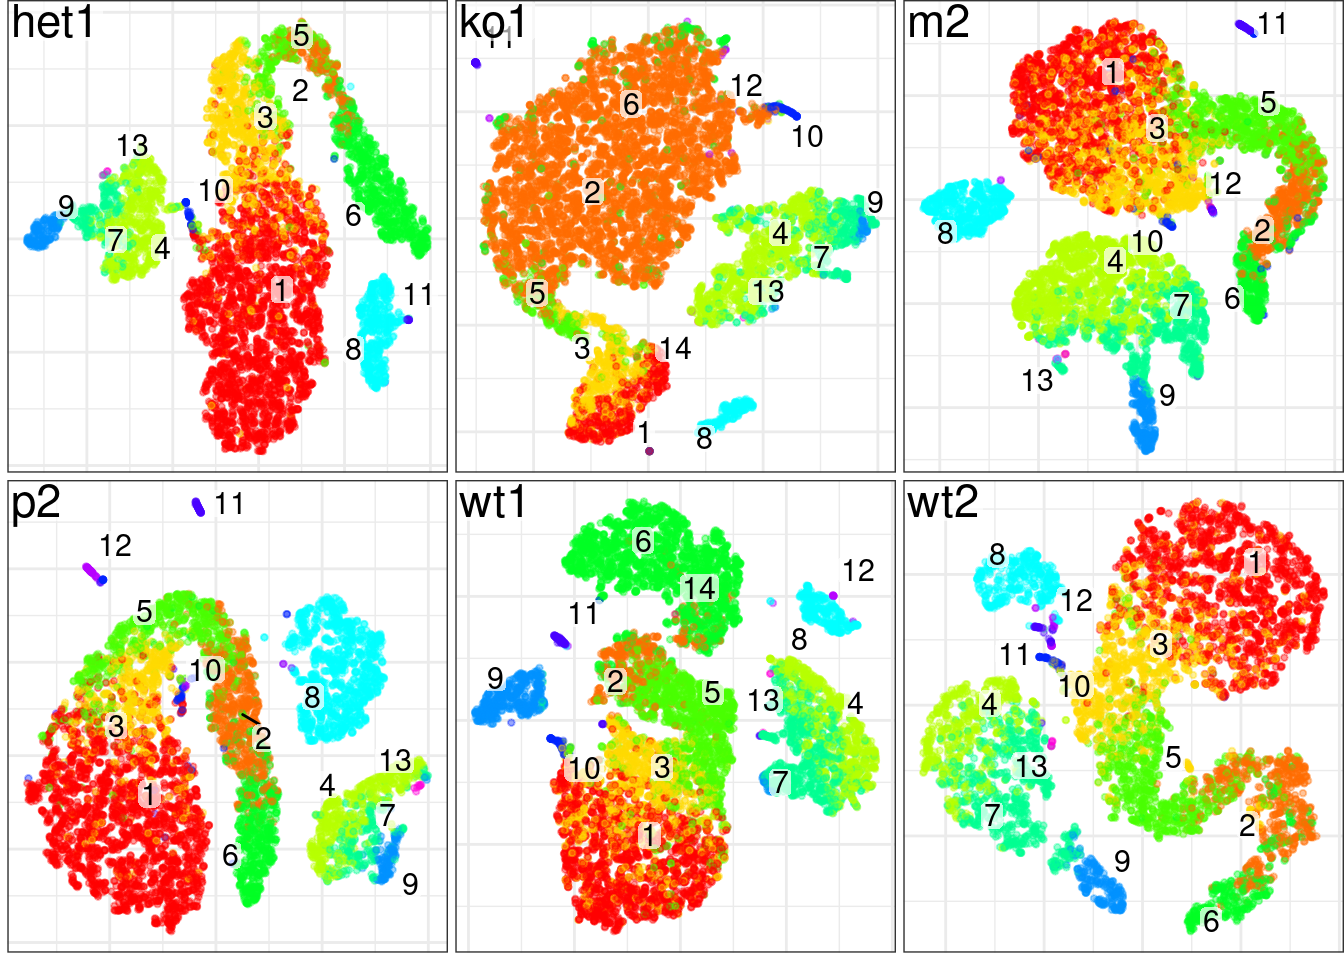
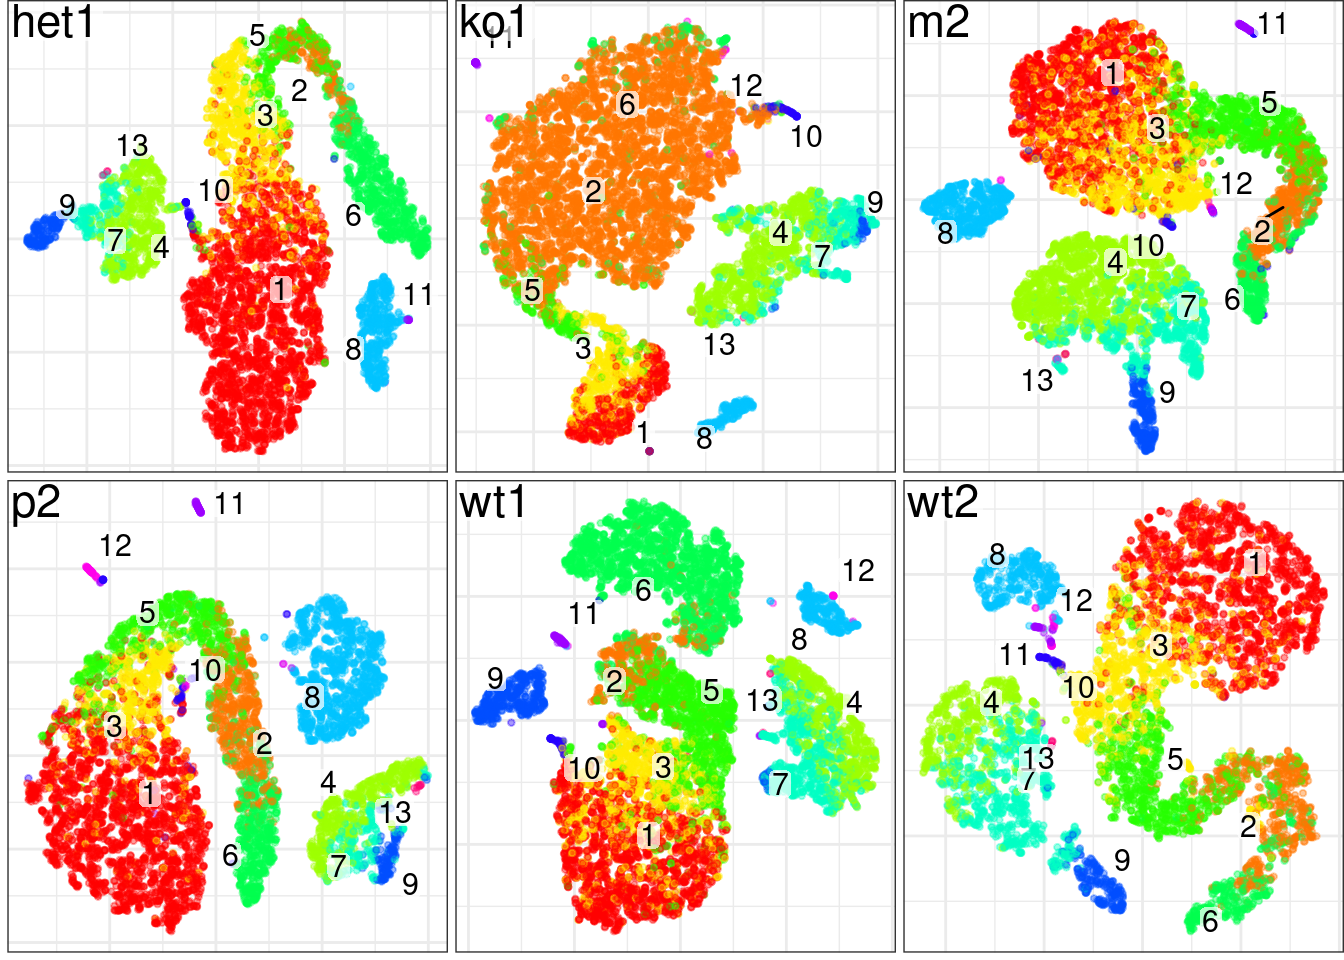
Build site.

diff --git a/docs/analysiswithconos.html b/docs/analysiswithconos.html
@@ -432,7 +432,7 @@ div.tocify {
 <div class="tab-content">
 <div id="summary" class="tab-pane fade in active">
 <p>
-<strong>Last updated:</strong> 2021-01-07
+<strong>Last updated:</strong> 2021-01-09
 </p>
 <p>
 <strong>Checks:</strong> <span class="glyphicon glyphicon-ok text-success" aria-hidden="true"></span> 7 <span class="glyphicon glyphicon-exclamation-sign text-danger" aria-hidden="true"></span> 0
@@ -523,22 +523,25 @@ This reproducible <a href="http://rmarkdown.rstudio.com">R Markdown</a> analysis
 <div class="panel panel-default">
 <div class="panel-heading">
 <p class="panel-title">
-<a data-toggle="collapse" data-parent="#workflowr-checks" href="#strongRepositoryversionstrongahrefhttpsgithubcomjeprobprojectscrnaseqintegrationcomparisontreeb05f3d0668901ab3c25655660842b1e27f8f6686targetblankb05f3d0a"> <span class="glyphicon glyphicon-ok text-success" aria-hidden="true"></span> <strong>Repository version:</strong> <a href="https://github.com/jeprob/project-scrnaseq-integration-comparison/tree/b05f3d0668901ab3c25655660842b1e27f8f6686" target="_blank">b05f3d0</a> </a>
+<a data-toggle="collapse" data-parent="#workflowr-checks" href="#strongRepositoryversionstrongahrefhttpsgithubcomjeprobprojectscrnaseqintegrationcomparisontree62b2a0fd752f8cdc4f7659828af6ff8f24dde9dctargetblank62b2a0fa"> <span class="glyphicon glyphicon-ok text-success" aria-hidden="true"></span> <strong>Repository version:</strong> <a href="https://github.com/jeprob/project-scrnaseq-integration-comparison/tree/62b2a0fd752f8cdc4f7659828af6ff8f24dde9dc" target="_blank">62b2a0f</a> </a>
 </p>
 </div>
[2 lines of base64/hex data omitted]
 <div class="panel-body">
 <p>
 Great! You are using Git for version control. Tracking code development and connecting the code version to the results is critical for reproducibility.
 </p>
 <p>
-The results in this page were generated with repository version <a href="https://github.com/jeprob/project-scrnaseq-integration-comparison/tree/b05f3d0668901ab3c25655660842b1e27f8f6686" target="_blank">b05f3d0</a>. See the <em>Past versions</em> tab to see a history of the changes made to the R Markdown and HTML files.
+The results in this page were generated with repository version <a href="https://github.com/jeprob/project-scrnaseq-integration-comparison/tree/62b2a0fd752f8cdc4f7659828af6ff8f24dde9dc" target="_blank">62b2a0f</a>. See the <em>Past versions</em> tab to see a history of the changes made to the R Markdown and HTML files.
 </p>
 <p>
 Note that you need to be careful to ensure that all relevant files for the analysis have been committed to Git prior to generating the results (you can use <code>wflow_publish</code> or <code>wflow_git_commit</code>). workflowr only checks the R Markdown file, but you know if there are other scripts or data files that it depends on. Below is the status of the Git repository when the results were generated:
 </p>
 <pre><code>
-working directory clean
+Ignored files:
+    Ignored:    .RData
+    Ignored:    .Rhistory
+
 </code></pre>
 <p>
 Note that any generated files, e.g. HTML, png, CSS, etc., are not included in this status report because it is ok for generated content to have uncommitted changes.
@@ -576,6 +579,40 @@ Message
 </tr>
 </thead>
 <tbody>
+<tr>
+<td>
+Rmd
+</td>
+<td>
+<a href="https://github.com/jeprob/project-scrnaseq-integration-comparison/blob/62b2a0fd752f8cdc4f7659828af6ff8f24dde9dc/analysis/analysiswithconos.Rmd" target="_blank">62b2a0f</a>
+</td>
+<td>
+jeprob
+</td>
+<td>
+2021-01-09
+</td>
+<td>
+wflow_publish(“analysis/analysiswithconos.Rmd”)
+</td>
+</tr>
+<tr>
+<td>
+html
+</td>
+<td>
+<a href="https://rawcdn.githack.com/jeprob/project-scrnaseq-integration-comparison/7f8786e9bd21fd77239acccee55fa3c5ac8be213/docs/analysiswithconos.html" target="_blank">7f8786e</a>
+</td>
+<td>
+jeprob
+</td>
+<td>
+2021-01-07
+</td>
+<td>
+index.html error
+</td>
+</tr>
 <tr>
 <td>
 html
@@ -619,7 +656,7 @@ wflow_publish(“analysis/analysiswithconos.Rmd”)
 </div>
 <div id="conos-integration" class="section level1">
 <h1>Conos integration:</h1>
-<p>Dataset preprocessing and integration was adapted from <a href="http://htmlpreview.github.io/?https://github.com/satijalab/seurat-wrappers/blob/master/docs/conos.html">this vignette</a> on the Seurat github. The Conos integration followed <a href="https://github.com/kharchenkolab/conos/blob/master/vignettes/walkthrough.md">this vignette</a> by the developers of Conos, subsection: ‘Systematic comparative analysis of human PBMC’.</p>
+<p>Dataset preprocessing and integration was adapted from <a href="http://htmlpreview.github.io/?https://github.com/satijalab/seurat-wrappers/blob/master/docs/conos.html">this vignette</a> on the Seurat github, subsection: ‘Systematic comparative analysis of human PBMC’. The Conos integration followed <a href="https://github.com/kharchenkolab/conos/blob/master/vignettes/walkthrough.md">this vignette</a> by the developers of Conos.</p>
 <div id="load-packages" class="section level2">
 <h2>Load packages</h2>
 <pre class="r"><code>library(conos)
@@ -627,8 +664,8 @@ library(dplyr)
 library(pagoda2)
 library(Seurat) </code></pre>
 </div>
-<div id="read-in-the-data-and-set-up-seurat-object" class="section level2">
-<h2>Read in the data and set up Seurat object</h2>
+<div id="data-readin" class="section level2">
+<h2>Data readin</h2>
 <pre class="r"><code>data_pbmc &lt;- readRDS(&quot;./data/wonglab_10x_XLP2_sce_after_scDblFinder.rds&quot;)
 data_pbmc</code></pre>
 <pre><code>class: SingleCellExperiment 
@@ -664,8 +701,8 @@ ENSG00000186891.TNFRSF18   . . . . . . . . ......
  .....suppressing 46265 columns in show(); maybe adjust &#39;options(max.print= *, width = *)&#39;
  ..............................</code></pre>
 </div>
-<div id="set-up-a-seurat-object-and-preprocess-with-seurat" class="section level2">
-<h2>Set up a Seurat object and preprocess with Seurat</h2>
+<div id="set-up-a-seurat-object" class="section level2">
+<h2>Set up a Seurat object</h2>
 <pre class="r"><code>#set up seurat object
 pbmc &lt;- as.Seurat(x=data_pbmc)
 pbmc</code></pre>
@@ -686,13 +723,13 @@ str(pbmc.panel,1)</code></pre>
 </div>
 <div id="preprocessing-with-seurat" class="section level2">
 <h2>Preprocessing with Seurat</h2>
-<p>Normal Seurat preprocessing steps are NormalizeDate, FindVariableFeatures, ScaleData and run PCA and TSNE for each dataset.</p>
+<p>Normal Seurat preprocessing steps are NormalizeDate, FindVariableFeatures, ScaleData and run PCA and t-SNE for each dataset.</p>
 <pre class="r"><code>for (i in 1:length(pbmc.panel)){
   pbmc.panel[[i]] &lt;- NormalizeData(pbmc.panel[[i]]) %&gt;% FindVariableFeatures() %&gt;% ScaleData() %&gt;% RunPCA(verbose=FALSE) %&gt;% RunTSNE(verbose=FALSE)
 }</code></pre>
 </div>
-<div id="integrating-dataset-with-conos" class="section level2">
-<h2>Integrating dataset with Conos</h2>
+<div id="integration-with-conos" class="section level2">
+<h2>Integration with Conos</h2>
 <pre class="r"><code># construct Conos object for the panel of samples
 pbmc.con &lt;- Conos$new(pbmc.panel)
 pbmc.con #have a look at the Conos object</code></pre>
@@ -777,9 +814,10 @@ jeprob
 </div>
 </div>
 <p>We can see that the first PC already explaines a large fraction of the variance. The second and the third PC also explain a much higher fraction of variance than the remaining ones.</p>
-<div id="downstream-analysis" class="section level3">
-<h3>Downstream analysis</h3>
-<p>We can now use the graph to find and visualize global clusters. Here, we use the Leiden community detection.</p>
+</div>
+<div id="downstream-analysis" class="section level2">
+<h2>Downstream analysis</h2>
+<p>We can now use the graph to find and visualize global clusters. Here, we use the Leiden community detection and visulatization in a two-dimensional space using the largeVis algorithm, which is default for Conos.</p>
 <pre class="r"><code>pbmc.con$findCommunities(method=leiden.community, resolution=0.8)</code></pre>
 <p>As a next step, the joint graph can be used to visualize the integration of datasets and the clustering.</p>
 <pre class="r"><code>pbmc.con$plotGraph(color.by=&#39;sample&#39;, mark.groups=FALSE, alpha=0.1, show.legend=TRUE)</code></pre>
@@ -809,6 +847,17 @@ Date
 <tbody>
 <tr>
 <td>
+<a href="https://github.com/jeprob/project-scrnaseq-integration-comparison/blob/7f8786e9bd21fd77239acccee55fa3c5ac8be213/docs/figure/analysiswithconos.Rmd/unnamed-chunk-9-1.png" target="_blank">7f8786e</a>
+</td>
+<td>
+jeprob
+</td>
+<td>
+2021-01-07
+</td>
+</tr>
+<tr>
+<td>
 <a href="https://github.com/jeprob/project-scrnaseq-integration-comparison/blob/df383348905581cc5d1dc34851824a6369f90b82/docs/figure/analysiswithconos.Rmd/unnamed-chunk-9-1.png" target="_blank">df38334</a>
 </td>
 <td>
@@ -822,7 +871,7 @@ jeprob
 </table>
 </div>
 </div>
-<p>One can observe that the data is integrated in a joint TSNE space and cells do not cluster by dataset.</p>
+<p>One can observe that the data is well integrated in the space and cells do not cluster by dataset.</p>
 <pre class="r"><code>pbmc.con$plotGraph(alpha=0.5)</code></pre>
 <p><img src="figure/analysiswithconos.Rmd/unnamed-chunk-10-1.png" width="672" style="display: block; margin: auto;" /></p>
 <p>
@@ -849,6 +898,17 @@ Date
 <tbody>
 <tr>
 <td>
+<a href="https://github.com/jeprob/project-scrnaseq-integration-comparison/blob/7f8786e9bd21fd77239acccee55fa3c5ac8be213/docs/figure/analysiswithconos.Rmd/unnamed-chunk-10-1.png" target="_blank">7f8786e</a>
+</td>
+<td>
+jeprob
+</td>
+<td>
+2021-01-07
+</td>
+</tr>
+<tr>
+<td>
 <a href="https://github.com/jeprob/project-scrnaseq-integration-comparison/blob/df383348905581cc5d1dc34851824a6369f90b82/docs/figure/analysiswithconos.Rmd/unnamed-chunk-10-1.png" target="_blank">df38334</a>
 </td>
 <td>
@@ -863,7 +923,7 @@ jeprob
 </div>
 </div>
 <p>We find that there are 14 clusters identified in total.</p>
-<p>Next, the joint clustering for each panel are plotted, where cell labels obtained from the joint clustering are added in the original TSNE embedding.</p>
+<p>Next, cells in the original t-SNE embedding were plotted for each panel and cell labels obtained from the joint clustering were added.</p>
 <pre class="r"><code>pbmc.con$plotPanel(font.size=4)</code></pre>
 <p><img src="figure/analysiswithconos.Rmd/unnamed-chunk-11-1.png" width="672" style="display: block; margin: auto;" /></p>
 <p>
@@ -890,6 +950,17 @@ Date
 <tbody>
 <tr>
 <td>
+<a href="https://github.com/jeprob/project-scrnaseq-integration-comparison/blob/7f8786e9bd21fd77239acccee55fa3c5ac8be213/docs/figure/analysiswithconos.Rmd/unnamed-chunk-11-1.png" target="_blank">7f8786e</a>
+</td>
+<td>
+jeprob
+</td>
+<td>
+2021-01-07
+</td>
+</tr>
+<tr>
+<td>
 <a href="https://github.com/jeprob/project-scrnaseq-integration-comparison/blob/df383348905581cc5d1dc34851824a6369f90b82/docs/figure/analysiswithconos.Rmd/unnamed-chunk-11-1.png" target="_blank">df38334</a>
 </td>
 <td>
@@ -903,7 +974,7 @@ jeprob
 </table>
 </div>
 </div>
-<p>We find different amounts of cell types in the individual datasets. To have a closer look at the composition of the individual datasets, we plot cluster barplots for the individual datasets.</p>
+<p>We observe that different amounts of the individual cell types are present in the different samples. To have a closer look at the composition of the individual samples, we plot cluster barplots for the individual datasets.</p>
 <pre class="r"><code>plotClusterBarplots(pbmc.con, legend.height = 0.1)</code></pre>
 <p><img src="figure/analysiswithconos.Rmd/unnamed-chunk-12-1.png" width="672" style="display: block; margin: auto;" /></p>
 <p>
@@ -930,6 +1001,17 @@ Date
 <tbody>
 <tr>
 <td>
+<a href="https://github.com/jeprob/project-scrnaseq-integration-comparison/blob/7f8786e9bd21fd77239acccee55fa3c5ac8be213/docs/figure/analysiswithconos.Rmd/unnamed-chunk-12-1.png" target="_blank">7f8786e</a>
+</td>
+<td>
+jeprob
+</td>
+<td>
+2021-01-07
+</td>
+</tr>
+<tr>
+<td>
 <a href="https://github.com/jeprob/project-scrnaseq-integration-comparison/blob/df383348905581cc5d1dc34851824a6369f90b82/docs/figure/analysiswithconos.Rmd/unnamed-chunk-12-1.png" target="_blank">df38334</a>
 </td>
 <td>
@@ -943,7 +1025,7 @@ jeprob
 </table>
 </div>
 </div>
-<p>Many interesting things can be observed in this plot. It is noteable that most of the cells in ko1 belong to cluster 2. Furthermore, the distribution of cells to clusters differs from wt1 to wt2, judged by eye. Cluster 12 is not present in the dataset het1.</p>
+<p>Many interesting things can be observed in this plot. The number of cells belonging to the clusters has a big range from many 1000 to less than 10 cells. Cells from smaller clusters still seemed to be observed in all samples, except for cluster 14 which only appears in samples ko1 and wt1 and cluster 12 which does not appear in het1. It is notable that most of the cells in ko1 belong either to cluster 2 or 14. Furthermore, there is no obvious trend, judged by eye, that wildtype sample cells seemed to be differently distributed than the remaining samples het1, m2 and p2.</p>
 <p>Further downstream analysis such as gene expression visualization or hierarchical community structure generation would be possible with Conos. For more information visit <a href="https://github.com/kharchenkolab/conos/blob/master/vignettes/walkthrough.md">this vignette</a>.</p>
 <br>
 <p>
@@ -981,7 +1063,7 @@ other attached packages:
  [9] MatrixGenerics_1.2.0        matrixStats_0.57.0         
 [11] Seurat_3.2.3                pagoda2_1.0.0              
 [13] dplyr_1.0.2                 conos_1.3.1                
-[15] igraph_1.2.6                Matrix_1.3-0               
+[15] igraph_1.2.6                Matrix_1.3-2               
 [17] workflowr_1.6.2            
 
 loaded via a namespace (and not attached):
@@ -1030,7 +1112,6 @@ loaded via a namespace (and not attached):
 [127] rmarkdown_2.6          dendsort_0.3.3         Cairo_1.5-12.2        
 [130] Rtsne_0.15             git2r_0.27.1           shiny_1.5.0           
 [133] base64enc_0.1-3       </code></pre>
-</div>
 </div>
 </div>
 </div>
